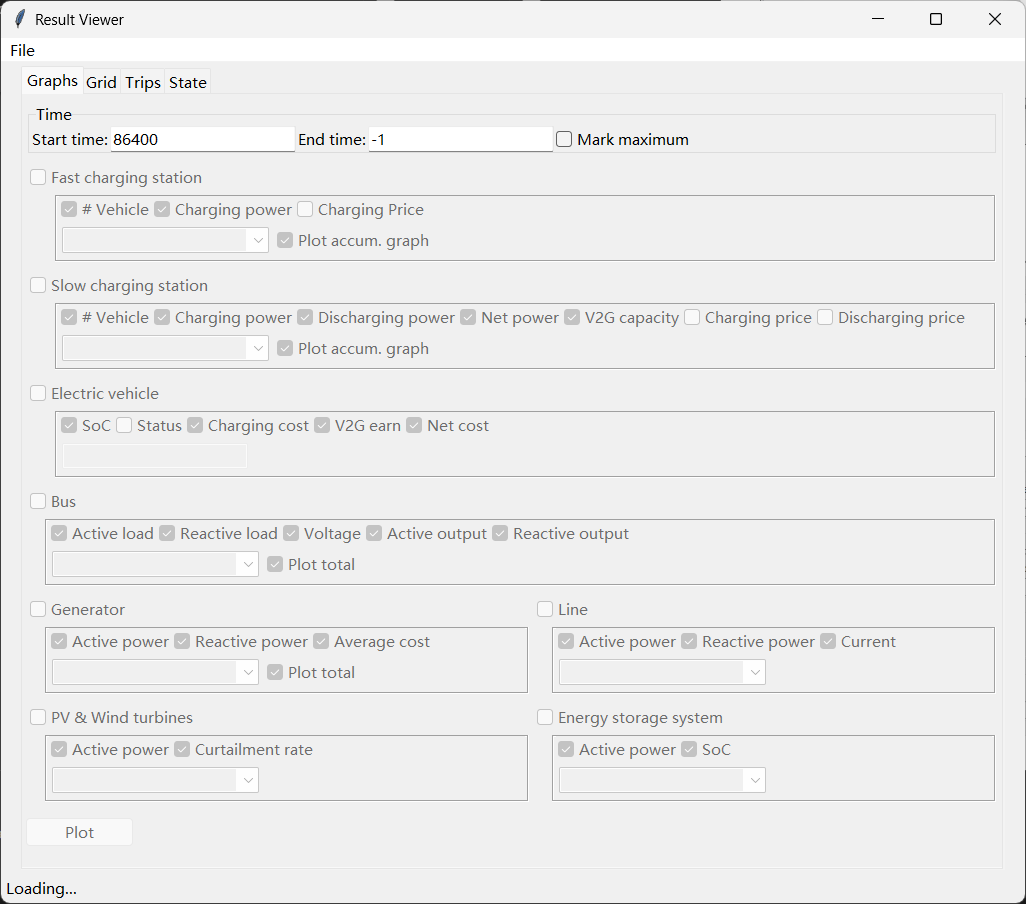
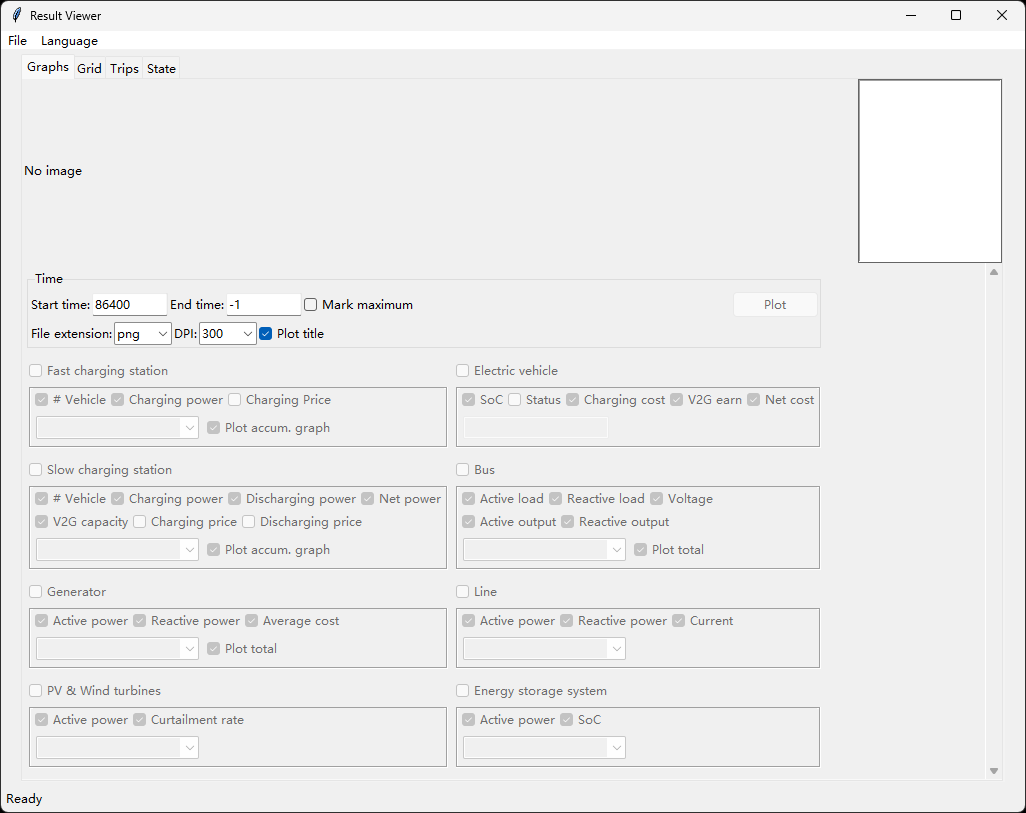
gui_viewer update

diff --git a/gui_viewer.py b/gui_viewer.py
@@ -2,9 +2,8 @@ import gzip
 import threading, os
 import pickle
 from pathlib import Path
-from queue import Queue
 from typing import Literal, Optional, Dict, List, Tuple
-from fgui import add_lang_menu
+from fgui import add_lang_menu, EventQueue
 from fgui.view import *
 from fgui import ScrollableTreeView, TripsFrame, DirSelApp
 from v2sim import CustomLocaleLib, AdvancedPlot, ReadOnlyStatistics
@@ -138,7 +137,7 @@ class PlotPage(Frame):
         self.lb_conf = Label(self.panel_conf, text=_L["FILE_EXT"])
         self.lb_conf.pack(side="left")
         self.cb_ext = Combobox(self.panel_conf,width=5, state="readonly")
-        self.cb_ext['values'] = ["png","jpg","eps","svg","tiff"]
+        self.cb_ext['values'] = ["png","jpg","pdf","eps","svg","tiff"]
         self.cb_ext.current(0)
         self.cb_ext.pack(side="left")
         self.lb_dpi = Label(self.panel_conf, text=_L["IMAGE_DPI"])
@@ -446,11 +445,16 @@ class PlotBox(Tk):
             "pvw": False, 
             "ess": False,
         }
-        self._Q = Queue()
+        self._Q = EventQueue(self)
+        self._Q.register("exit", self.quit)
+        self._Q.register("loaded", self.on_loaded)
+        self._Q.register("state_loaded", self.on_state_loaded)
+        self._Q.register("plot_done", self.on_plot_done)
+        self._Q.do()
+
         self.disable_all()
         self.bind("<Configure>", self.on_resize)
         self.resize_timer = None
-        self.after(100,self._upd)
     
     def display_images(self, file_name:str):
         if self.folder is None: return
@@ -600,62 +604,52 @@ class PlotBox(Tk):
                 if file.lower().endswith(('png', 'jpg', 'jpeg', 'gif')):  # 只列出图片文件
                     self.pic_list.insert(END, file)
 
-    def _upd(self):
-        while not self._Q.empty():
-            op, *par = self._Q.get()
-            if op == 'L':
-                assert isinstance(par[0], ReadOnlyStatistics)
-                assert isinstance(par[1], AdvancedPlot)
-                self._sta = par[0]
-                self._npl = par[1]
-                for x in AVAILABLE_ITEMS:
-                    self._ava[x] = getattr(self._sta, f"has_{x.upper()}")()
-                if self._sta.has_FCS():
-                    self._pp.fcs_pad.setValues([ITEM_SUM, ITEM_ALL] + self._sta.FCS_head)
-                    self.cb_fcs_query['values'] = self._sta.FCS_head
-                    if self._sta.FCS_head:
-                        self.cb_fcs_query.set(self._sta.FCS_head[0])
-                if self._sta.has_SCS():
-                    self._pp.scs_pad.setValues([ITEM_SUM, ITEM_ALL] + self._sta.SCS_head)
-                    self.cb_scs_query['values'] = self._sta.SCS_head
-                    if self._sta.SCS_head:
-                        self.cb_scs_query.set(self._sta.SCS_head[0])
-                if self._sta.has_GEN():
-                    self._pp.gen_pad.setValues([ITEM_ALL_G,ITEM_ALL_V2G,ITEM_ALL] + self._sta.gen_head)
-                if self._sta.has_BUS():
-                    self._pp.bus_pad.setValues([ITEM_ALL] + self._sta.bus_head)
-                if self._sta.has_LINE():
-                    self._pp.line_pad.setValues([ITEM_ALL] + self._sta.line_head)
-                if self._sta.has_PVW():
-                    self._pp.pvw_pad.setValues([ITEM_ALL] + self._sta.pvw_head)
-                if self._sta.has_ESS():
-                    self._pp.ess_pad.setValues([ITEM_ALL] + self._sta.ess_head)
-                self.update_file_list()
-                self.set_status(_L["STA_READY"])
-                self.enable_all()
-            elif op=='LS':
-                self.__inst = par[0]
-            elif op=='UC':
-                getattr(self._pp, par[0]).set("False")
-            elif op=='I':
-                self.set_status(par[0])
-            elif op=='E':
-                MB.showerror(_L["ERROR"], par[0])
-                self.set_status(par[0])
-                self.enable_all()
-            elif op=='LE':
-                self.set_status(par[0])
-                break
-            elif op=='D':
-                self.update_file_list()
-                self.set_status(_L["STA_READY"])
-                self.enable_all()
-            elif op=='Q':
-                self.destroy()
-            else:
-                self.set_status(_L["INTERNAL_ERR"])
-                break
-        self.after(100,self._upd)
+    def on_state_loaded(self, par):
+        self.__inst = par
+    
+    def on_loaded(self, sta:ReadOnlyStatistics, npl:AdvancedPlot):
+        assert isinstance(sta, ReadOnlyStatistics)
+        assert isinstance(npl, AdvancedPlot)
+        self._sta = sta
+        self._npl = npl
+        for x in AVAILABLE_ITEMS:
+            self._ava[x] = getattr(self._sta, f"has_{x.upper()}")()
+        if self._sta.has_FCS():
+            self._pp.fcs_pad.setValues([ITEM_SUM, ITEM_ALL] + self._sta.FCS_head)
+            self.cb_fcs_query['values'] = self._sta.FCS_head
+            if self._sta.FCS_head:
+                self.cb_fcs_query.set(self._sta.FCS_head[0])
+        if self._sta.has_SCS():
+            self._pp.scs_pad.setValues([ITEM_SUM, ITEM_ALL] + self._sta.SCS_head)
+            self.cb_scs_query['values'] = self._sta.SCS_head
+            if self._sta.SCS_head:
+                self.cb_scs_query.set(self._sta.SCS_head[0])
+        if self._sta.has_GEN():
+            self._pp.gen_pad.setValues([ITEM_ALL_G,ITEM_ALL_V2G,ITEM_ALL] + self._sta.gen_head)
+        if self._sta.has_BUS():
+            self._pp.bus_pad.setValues([ITEM_ALL] + self._sta.bus_head)
+        if self._sta.has_LINE():
+            self._pp.line_pad.setValues([ITEM_ALL] + self._sta.line_head)
+        if self._sta.has_PVW():
+            self._pp.pvw_pad.setValues([ITEM_ALL] + self._sta.pvw_head)
+        if self._sta.has_ESS():
+            self._pp.ess_pad.setValues([ITEM_ALL] + self._sta.ess_head)
+        self.update_file_list()
+        self.set_status(_L["STA_READY"])
+        self.enable_all()
+        
+    def on_error(self, par):
+        MB.showerror(_L["ERROR"], par[0])
+        self.set_status(par[0])
+        self.enable_all()
+    
+    def on_plot_done(self, ex:Optional[Exception] = None):
+        if ex is None:
+            self.update_file_list()
+            self.set_status(_L["STA_READY"])
+            self.enable_all()
+        else:
+            self.on_error(str(ex))
     
     def askdir(self):
         p = Path(os.getcwd()) / "cases"
@@ -681,7 +675,7 @@ class PlotBox(Tk):
             first = False
             res_path = self.askdir()
             if res_path == "":
-                self._Q.put(('Q',None))
+                self._Q.trigger("exit")
                 return
         
         # Check cproc.clog existence
@@ -703,9 +697,11 @@ class PlotBox(Tk):
                 dsa = DirSelApp(res_path_list)
                 self.wait_window(dsa)
                 if dsa.folder is None:
-                    self._Q.put(('Q',None))
+                    self._Q.trigger("exit")
                     return
                 res_path = Path(dsa.folder)
+            cproc = res_path / "cproc.clog"
+            self.tab_trip.load(str(cproc))
         
         # Load the results
         self.set_status(_L["LOADING"])
@@ -717,9 +713,9 @@ class PlotBox(Tk):
             sta = ReadOnlyStatistics(res_path)
             npl = AdvancedPlot()
             npl.load_series(sta)
-            self._Q.put(('L', sta, npl))
+            return (sta, npl)
         
-        threading.Thread(target=load_async, args=(res_path,), daemon=True).start()
+        self._Q.submit("loaded", load_async, res_path)
 
         state_path = res_path / "saved_state" / "inst.gz"
 
@@ -730,11 +726,10 @@ class PlotBox(Tk):
             except:
                 MB.showerror(_L["ERROR"], _L["SAVED_STATE_LOAD_FAILED"])
                 inst = None
-            self._Q.put(('LS', inst))
+            return inst
 
         if state_path.exists():
-            threading.Thread(target=load_state_async, args=(state_path,), daemon=True).start()
-            
+            self._Q.submit("state_loaded", load_state_async, state_path)
 
     def plotSelected(self):
         cfg = self._pp.getConfig()
@@ -753,20 +748,22 @@ class PlotBox(Tk):
         else:
             MB.showerror(_L["ERROR"], _L["NOTHING_PLOT"])
             self.enable_all()
+        
         def work(cfg):
+            def todo(plotpage, opt_name):
+                getattr(plotpage, "plot_" + opt_name).set("False")
+
             try:
                 for a in AVAILABLE_ITEMS2:
                     if cfg[a]:
                         getattr(self, "_plot_"+a)()
                         if "_" in a: continue
-                        self._Q.put(('UC', "plot_"+a))
+                        self._Q.delegate(todo, self._pp, a)
             except Exception as e:
-                self._Q.put(('E', str(e)))
-            else:
-                self._Q.put(('D', None))
-        t = threading.Thread(target=work,args=(cfg,),daemon=True)
-        
-        t.start()
+                return e
+            return None
+
+        self._Q.submit("plot_done", work, cfg)
 
     def _plot_scs_accum(self):
         tl,tr = self._pp.getTime()
@@ -785,7 +782,7 @@ class PlotBox(Tk):
         else:
             cs = [x.strip() for x in t.split(',')]
         for i,c in enumerate(cs,start=1):
-            self._Q.put(('I',f'({i} of {len(cs)})Plotting FCS graph...'))
+            self._Q.delegate(self.set_status, f'({i} of {len(cs)})Plotting FCS graph...')
             self._npl.quick_fcs(
                 cs_name=c, res_path=self._sta.root, 
                 **self._pp.pars("fcs")
@@ -800,7 +797,7 @@ class PlotBox(Tk):
         else:
             cs = [x.strip() for x in t.split(',')]
         for i,c in enumerate(cs,start=1):
-            self._Q.put(('I',f'({i} of {len(cs)})Plotting SCS graph...'))
+            self._Q.delegate(self.set_status, f'({i} of {len(cs)})Plotting SCS graph...')
             self._npl.quick_scs(
                 cs_name=c, res_path=self._sta.root,
                 **self._pp.pars("scs")
@@ -811,7 +808,7 @@ class PlotBox(Tk):
         t = self._pp.ev_pad.get()
         evs=None if t.strip()=="" else [x.strip() for x in t.split(',')]
         if evs is None:
-            self._Q.put(('E','ID of EV cannot be empty'))
+            self._Q.trigger("error", 'ID of EV cannot be empty')
             return
         for ev in evs:
             self._npl.quick_ev(ev_name = ev,
@@ -829,7 +826,7 @@ class PlotBox(Tk):
             gen = [x for x in self._sta.gen_head if x.startswith("V2G")]
         else: gen = [x.strip() for x in t.split(',')]
         for i, g in enumerate(gen, start=1):
-            self._Q.put(('I',f'({i}/{len(gen)})Plotting generators...'))
+            self._Q.delegate(self.set_status, f'({i}/{len(gen)})Plotting generators...')
             self._npl.quick_gen(
                 gen_name=g,res_path=self._sta.root,
                 **self._pp.pars("gen")
@@ -841,7 +838,7 @@ class PlotBox(Tk):
             bus=self._sta.bus_head
         else: bus=[x.strip() for x in t.split(',')]
         for i,g in enumerate(bus,start=1):
-            self._Q.put(('I',f'({i}/{len(bus)})Plotting buses...'))
+            self._Q.delegate(self.set_status, f'({i}/{len(bus)})Plotting buses...')
             self._npl.quick_bus(
                 bus_name = g, res_path=self._sta.root,
                 **self._pp.pars("bus")
@@ -861,7 +858,7 @@ class PlotBox(Tk):
             line=self._sta.line_head
         else: line=[x.strip() for x in t.split(',')]
         for i,g in enumerate(line,start=1):
-            self._Q.put(('I',f'({i}/{len(line)})Plotting lines...'))
+            self._Q.delegate(self.set_status, f'({i}/{len(line)})Plotting lines...')
             self._npl.quick_line(
                 line_name = g, res_path=self._sta.root,
                 **self._pp.pars("line")
@@ -873,7 +870,7 @@ class PlotBox(Tk):
             pvw = self._sta.pvw_head
         else: pvw = [x.strip() for x in t.split(',')]
         for i, g in enumerate(pvw,start=1):
-            self._Q.put(('I',f'({i}/{len(pvw)})Plotting PV & Wind...'))
+            self._Q.delegate(self.set_status, f'({i}/{len(pvw)})Plotting PV & Wind...')
             self._npl.quick_pvw(
                 pvw_name = g, res_path=self._sta.root,
                 **self._pp.pars("pvw")
@@ -885,7 +882,7 @@ class PlotBox(Tk):
             ess = self._sta.ess_head
         else: ess = [x.strip() for x in t.split(',')]
         for i,g in enumerate(ess,start=1):
-            self._Q.put(('I',f'({i}/{len(ess)})Plotting ESS...'))
+            self._Q.delegate(self.set_status, f'({i}/{len(ess)})Plotting ESS...')
             self._npl.quick_ess(
                 ess_name = g, res_path = self._sta.root,
                 **self._pp.pars("ess")

diff --git a/readme.md b/readme.md
@@ -133,3 +133,8 @@ You can also collect the data of the power grid at a specific time in page `Grid
 Trips are also counted in `Trips` page. You can filter them by giving the conditions in the bar attached to the bottom of the window. You can also save the filtered results to a specific file.
 
 ![alt text](docs/8.png)
+
+#### State viewer
+If you have ticked "Save state ..." before simulation, the state will be saved in the result folder. You can go through the status of FCS, SCS, and EV in the page. 
+
+![alt text](docs/12.png)
